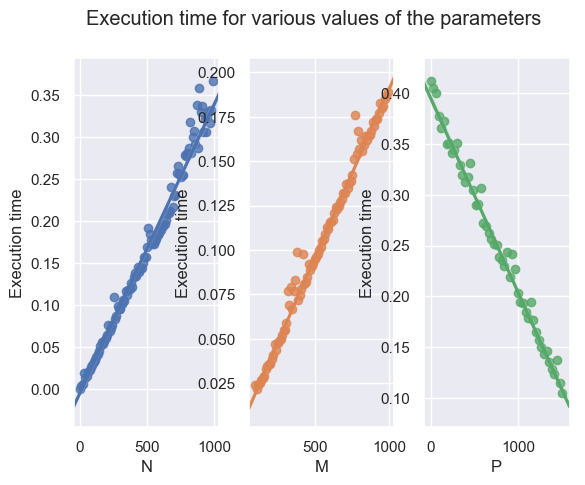
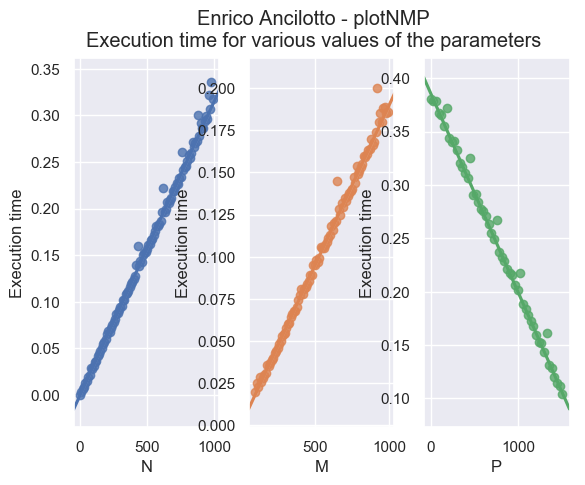
bla bla test afyer the fact

diff --git a/p2.py b/p2.py
@@ -115,16 +115,19 @@ def plotNMP(dfN,dfM,dfP,dfMP, saveNumber=-1):
     sns.regplot(y='Execution time', x='N', data=dfN, ax=axes[0], robust=True)
     sns.regplot(y='Execution time', x='M', data=dfM, ax=axes[1], robust=True)
     sns.regplot(y='Execution time', x='P', data=dfP, ax=axes[2], robust=True)
-    f.suptitle("Execution time for various values of the parameters")
+    f.suptitle("Enrico Ancilotto - plotNMP\nExecution time for various values of the parameters")
     plt.savefig("fig"+str(saveNumber)+".png", bbox_inches='tight')
+    plt.show()
 
-    sns.lmplot(y='Execution time', x='M', hue='M - P', data=dfMP, robust=True).fig.suptitle("Execution time as M-P is fixed and M is varied")
+    sns.lmplot(y='Execution time', x='M', hue='M - P', data=dfMP, robust=True).fig.suptitle("Enrico Ancilotto - plotNMP\nExecution time as M-P is fixed and M is varied")
     plt.savefig("fig"+str(saveNumber+1)+".png", bbox_inches='tight')
+    plt.show()
 
 def plotG(dfG, saveNumber=-1):
     plt.clf()
-    sns.regplot(y='Execution time', x='G', data=dfG, robust=True).set_title("Execution time against various number of matching elements")
+    sns.regplot(y='Execution time', x='G', data=dfG, robust=True).set_title("Enrico Ancilotto - plotG\nExecution time against various number of matching elements")
     plt.savefig("fig"+str(saveNumber)+".png", bbox_inches='tight')
+    plt.show()
 
 
 
